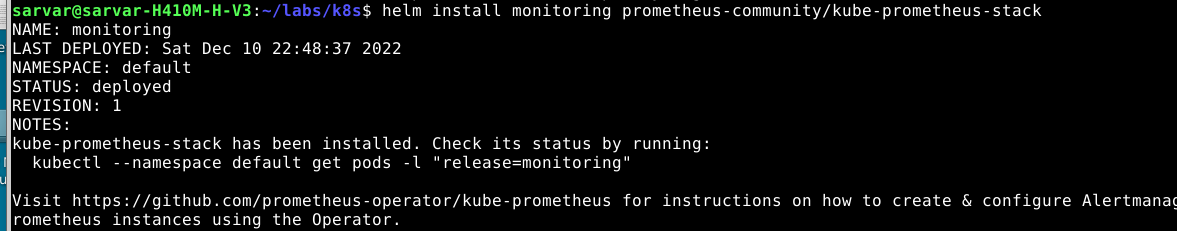
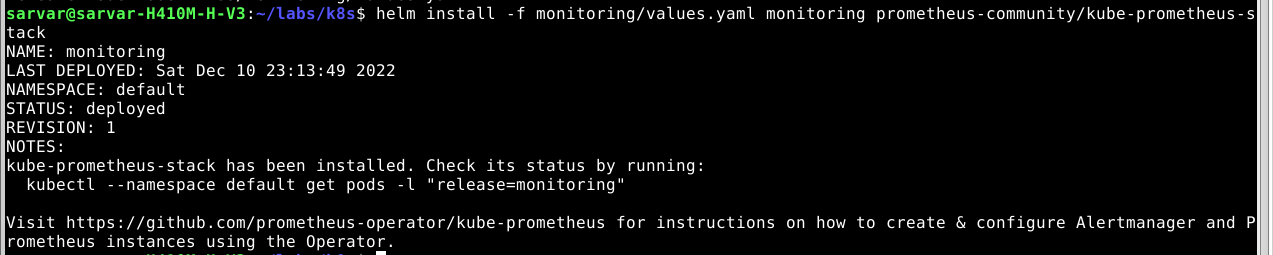
add service monitor

Changed region(s): [[0.0, 0.0, 1.0, 1.0]]

diff --git a/k8s/14.md b/k8s/14.md
@@ -28,7 +28,7 @@ helm repo update
 Install stack
 
 ```commandline
-helm install monitoring prometheus-community/kube-prometheus-stack
+helm install -f monitoring/values.yaml monitoring prometheus-community/kube-prometheus-stack
 ```
 
 ![](images/14/1.png)
@@ -41,3 +41,7 @@ Install my apps
 
 ![](images/14/3.png)
 ![](images/14/4.png)
+
+## Access Grafana
+
+![](images/14/5.png)
